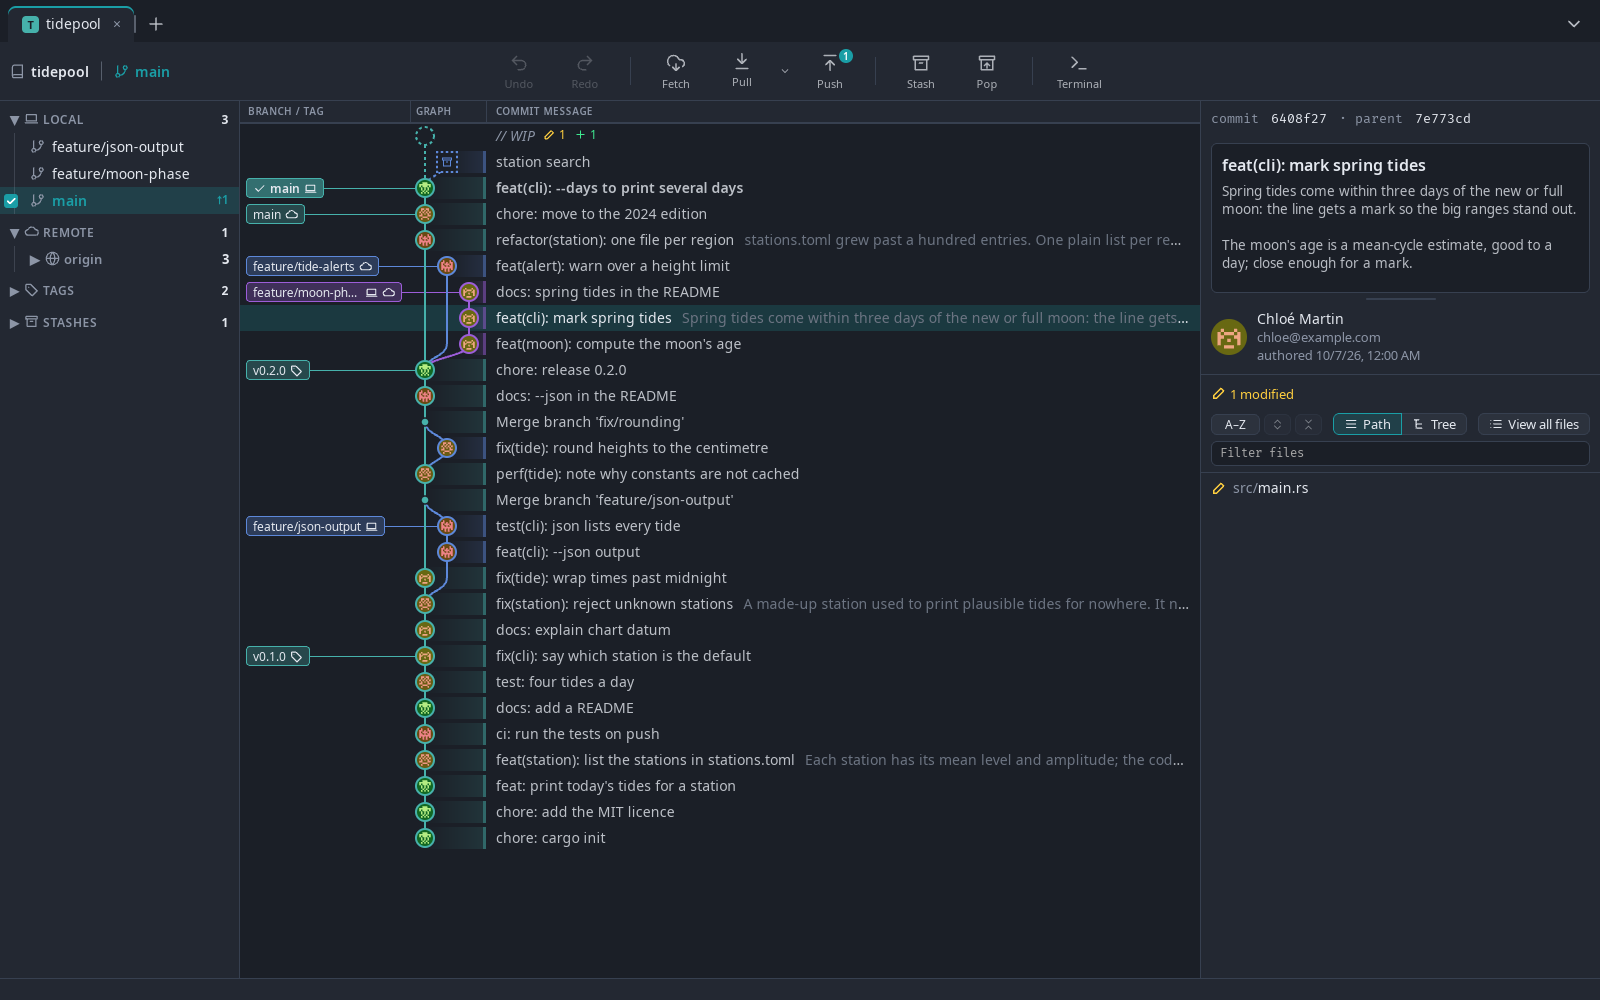
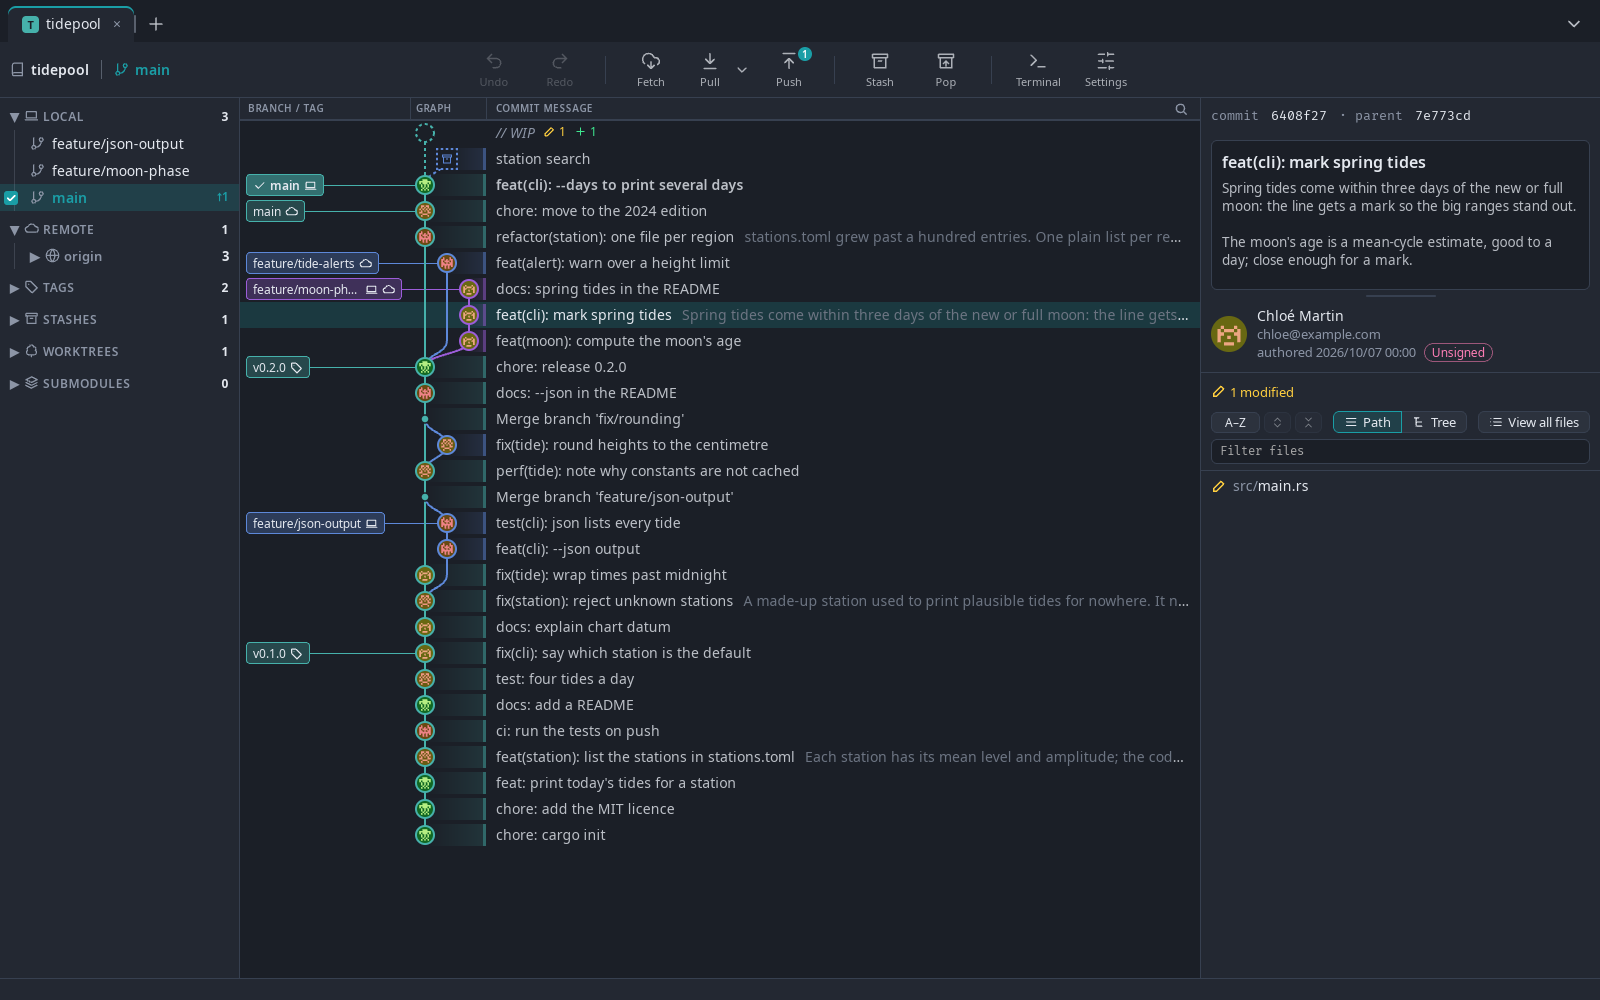
docs: retake screenshots and list the 0.2 features

diff --git a/README.md b/README.md
@@ -7,12 +7,17 @@ A lean desktop git client for Linux: a commit graph, diffs you can stage from, a
 ## Features
 
 - **Graph**: every branch in lanes, with branch and tag labels, generated author avatars, and search (Ctrl+F). Branches, tags, remotes and stashes can be hidden one by one.
-- **Changes**: stage and unstage whole files, hunks or single lines; commit; discard with undo (Ctrl+Z).
+- **Changes**: stage and unstage whole files, hunks or single lines; commit, amend, reword; discard with undo (Ctrl+Z).
 - **Diffs**: hunk, inline or side-by-side views; the working tree file can be edited and saved in place; a commit's hunk can be reverted.
-- **Conflicts**: a three-pane merge tool with picks per hunk or per line, then finish or abort the merge or rebase.
+- **Images**: old and new side by side; an SVG as its text or drawn. Other binary files open in their default program.
+- **Conflicts**: a three-pane merge tool with picks per hunk or per line, then finish or abort the merge or rebase; recorded resolutions can be reused (git rerere).
+- **Interactive rebase**: pick, reword, squash or drop commits, and reorder them by dragging.
 - **File history**: each version of a file, as a diff or in full with blame.
-- **Branches and remotes**: checkout, create, merge, rebase, reset, delete (local and upstream); fetch, pull and push, with a fetch in the background every 5 minutes.
-- **Stashes, tags and worktrees** from the sidebar.
+- **Branches and remotes**: checkout, create, merge, rebase, reset, delete (local and upstream); fetch, pull and push, with a fetch in the background.
+- **Stashes, tags, worktrees and submodules** from the sidebar; a worktree or a submodule opens in the same tab, Esc steps back.
+- **Git LFS**: files diffed by their content, missing versions downloaded on demand; track, untrack and prune from the menus.
+- **Commits** show whether the server verified their signature (with the GitHub CLI).
+- **Settings**: tool status, background fetch, the editor command, and the global git identity.
 - **Tabs**, one repository each, and a terminal in each tab (Ctrl+`).
 - SSH passphrase and HTTPS password prompts show in the window.
 
@@ -49,6 +54,7 @@ npm test
 | Ctrl+T, Ctrl+W, Ctrl+Shift+T | New tab, close it, reopen the last closed |
 | Ctrl+Tab, Ctrl+Shift+Tab | Next, previous tab |
 | Ctrl+O | Open a repository |
+| Alt+← | Back from a worktree or a submodule to its repository |
 | Ctrl+F | Search the graph |
 | Ctrl+Z, Ctrl+Y | Undo, redo |
 | Ctrl+` | Terminal |
